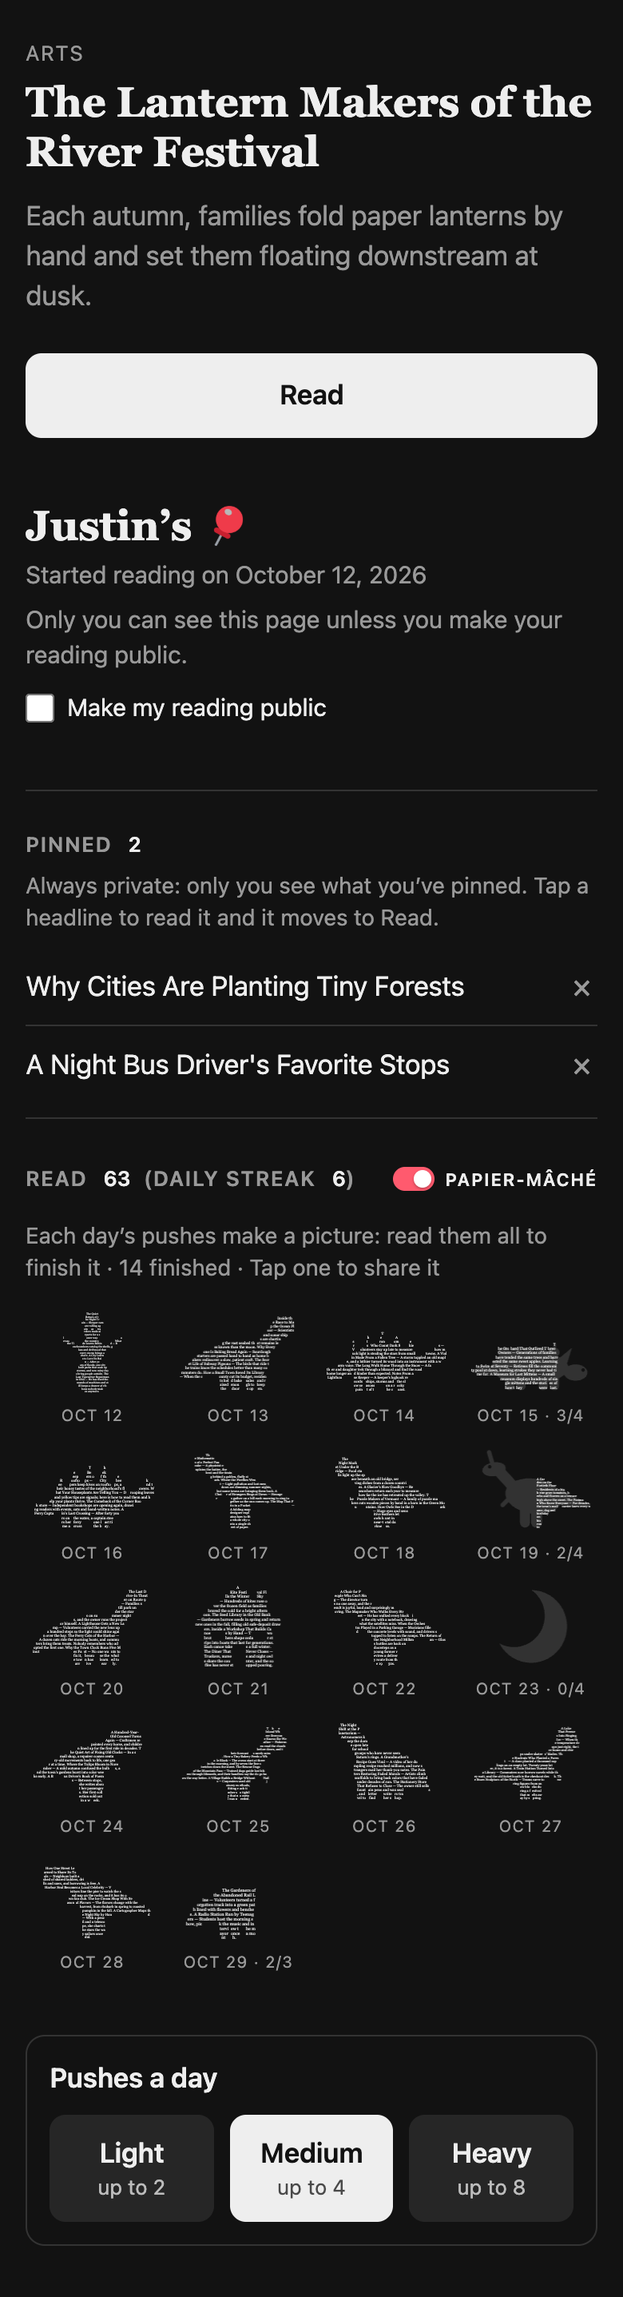
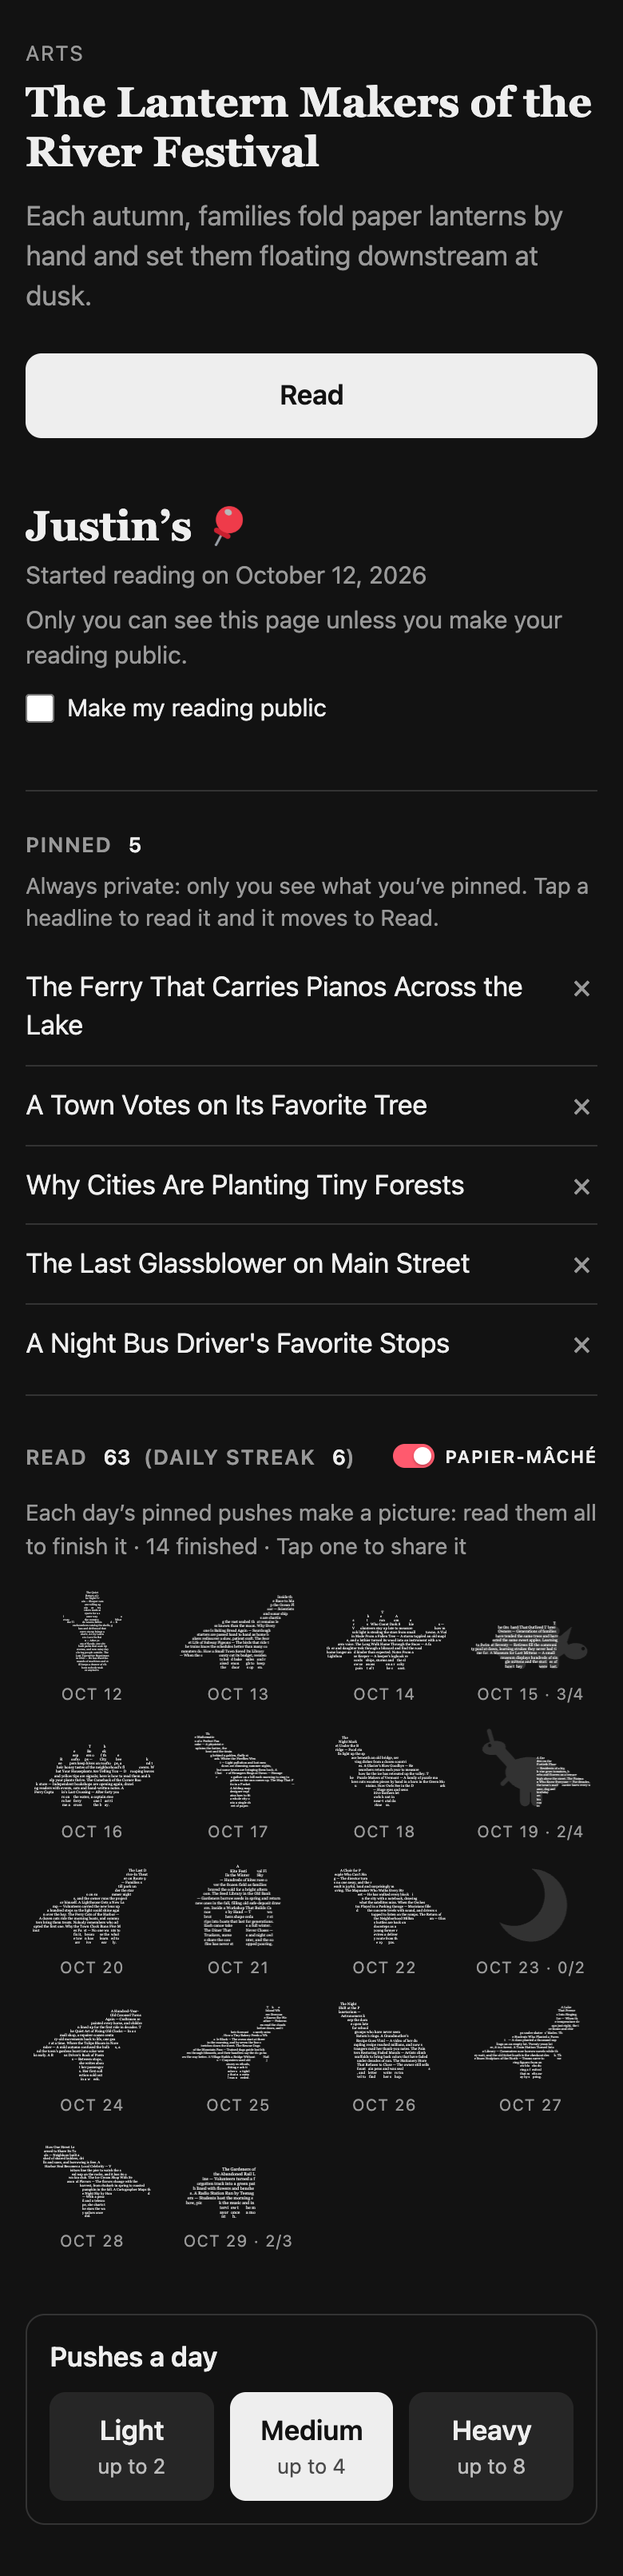
Daily pictures count what was pinned: read ÷ pinned that day (3 read, 2 still pinned: 3/5); pushes never tapped don't count; a pinned article deleted unread leaves the count; demo and docs updated

diff --git a/src/pushpin/cards.py b/src/pushpin/cards.py
@@ -855,14 +855,14 @@ const MONTHS = ['Jan', 'Feb', 'Mar', 'Apr', 'May', 'Jun', 'Jul', 'Aug', 'Sep', '
 function build(animate) {
   box.innerHTML = '';
   days.forEach((d, k) => {  // one picture a day, oldest first, made of that day's read headlines
-    const kind = kindFor(d.day), day = dayText(d), done = d.sent > 0 && d.titles.length >= d.sent, built = d.sent ? Math.min(1, d.titles.length / d.sent) : 0;
+    const kind = kindFor(d.day), day = dayText(d), done = d.pinned > 0 && d.read >= d.pinned, built = d.pinned ? Math.min(1, d.read / d.pinned) : 0;
     const past = d.day < (data.dataset.today || '');
     const when = MONTHS[+d.day.slice(5, 7) - 1] + ' ' + +d.day.slice(8, 10);
     const fig = document.createElement('figure'), canvas = document.createElement('canvas'), cap = document.createElement('figcaption');
     canvas.setAttribute('role', 'img');
-    canvas.setAttribute('aria-label', 'A ' + kind.name + ' for ' + when + ', ' + d.titles.length + ' of ' + d.sent + ' pushes read'
+    canvas.setAttribute('aria-label', 'A ' + kind.name + ' for ' + when + ', ' + d.read + ' of ' + d.pinned + ' pinned pushes read'
                         + (d.titles.length ? ': ' + d.titles.join('; ') : ''));
-    cap.textContent = when + (done ? '' : ' · ' + d.titles.length + '/' + d.sent);
+    cap.textContent = when + (done ? '' : ' · ' + d.read + '/' + d.pinned);
     if (built > 0 || past) {  // tap to share it (unfinished: today, the part revealed; a past day, the whole die-cut, blank where missed)
       const tap = document.createElement('button'), named = done || past;
       tap.type = 'button'; tap.className = 'dino'; tap.title = (named ? kind.name + ' · ' : '') + when;
@@ -900,11 +900,11 @@ let t; window.addEventListener('resize', () => { clearTimeout(t); t = setTimeout
 
 
 def papier_days(read: list[dict]) -> list[dict]:
-    """Days from the reads alone, when the pushes sent aren't known: every day with reads, finished."""
+    """Days from the reads alone, when what was pinned isn't known: every day with reads, finished."""
     out: dict[str, dict] = {}
     for a in sorted(read, key=lambda a: a["read_at"] or ""):
-        d = out.setdefault(a["read_at"][:10], {"day": a["read_at"][:10], "sent": 0, "read": 0, "titles": [], "abstracts": []})
-        d["sent"] += 1
+        d = out.setdefault(a["read_at"][:10], {"day": a["read_at"][:10], "pinned": 0, "read": 0, "titles": [], "abstracts": []})
+        d["pinned"] += 1
         d["read"] += 1
         d["titles"].append(a["title"] or "Untitled")
         d["abstracts"].append(a.get("abstract") or "")
@@ -914,17 +914,19 @@ def papier_days(read: list[dict]) -> list[dict]:
 def papier(read: list[dict], days: list[dict] | None = None, today: date | None = None) -> tuple[str, str, str]:
     """Papier-mâché for a Read list the page shows: the switch for the panel's header, the
     instructions (shown when it's on), and the pictures' container with their days and script.
-    One picture a day, made of that day's read headlines and filled in as they're read: reading
-    all of the day's pushes finishes it. The date picks the shape, the same for everyone that day."""
+    One picture a day the reader pinned pushes, made of the ones they read and filled in as they
+    read them: reading everything pinned that day finishes it (3 read and 2 still pinned: 3/5). The
+    date picks the shape, the same for everyone that day."""
     if not read:
         return "", "", ""
     days = days if days is not None else papier_days(read)
-    data = json.dumps([{"day": d["day"], "sent": d["sent"], "titles": d["titles"], "abstracts": d.get("abstracts") or []}
+    data = json.dumps([{"day": d["day"], "pinned": d["pinned"], "read": d["read"], "titles": d["titles"],
+                        "abstracts": d.get("abstracts") or []}
                        for d in days]).replace("</", "<\\/")
-    done = sum(1 for d in days if d["sent"] and d["read"] >= d["sent"])
+    done = sum(1 for d in days if d["pinned"] and d["read"] >= d["pinned"])
     switch = ('<button type="button" class="pm" id="papier-on" aria-pressed="false">'
               '<span class="track"><span class="knob"></span></span>Papier-mâché</button>')
-    hint = (f'<p class="papier-hint" hidden>Each day’s pushes make a picture: read them all to finish it · '
+    hint = (f'<p class="papier-hint" hidden>Each day’s pinned pushes make a picture: read them all to finish it · '
             f'{done} finished · Tap one to share it</p>')
     gallery = (f'<div class="papier" id="papier" hidden></div>'
                f'<script type="application/json" id="papier-data" '
@@ -987,8 +989,8 @@ def demo_data() -> tuple[list[dict], list[dict]]:
     read, a few not finished, nothing read on Oct 23, and the last six days in a row: Read 63, Daily
     streak 6. Returns the reads and the days (Store.days' shape)."""
     read, by_day, k = [], {}, 0
-    for day, sent, n in DEMO_DAYS:
-        d = {"day": f"2026-10-{day:02d}", "sent": sent, "read": n, "titles": [], "abstracts": []}
+    for day, pinned, n in DEMO_DAYS:
+        d = {"day": f"2026-10-{day:02d}", "pinned": pinned, "read": n, "titles": [], "abstracts": []}
         for j in range(n):
             read.append({"news_id": f"DEMO{k}", "title": DEMO_TITLES[k], "abstract": DEMO_ABSTRACTS[k],
                          "url": "https://www.nytimes.com", "section": None, "read_at": f"{d['day']}T{8 + 4 * j:02d}:00"})
@@ -1013,21 +1015,22 @@ def demo_owner_page(share_url: str, caps: dict | None = None) -> str:
                         days=days, caps=caps, inert=True)
 
 
-# today's third push, just tapped (pinned, not read yet: reading it would finish Oct 29's picture),
-# and pushes pinned on earlier days and never read; made up, like the rest
+# today's third push, just tapped (pinned, not read yet: reading it would finish Oct 29's picture);
+# DEMO_PINNED adds the ones pinned on earlier days and never read (Oct 15, 19, 23); made up
 DEMO_PIN = {"push_id": "DEMO-PIN", "news_id": "DEMO-PIN", "section": "Arts", "url": "https://www.nytimes.com", "read": False,
             "title": "The Lantern Makers of the River Festival",
             "abstract": "Each autumn, families fold paper lanterns by hand and set them floating downstream at dusk."}
-DEMO_PINNED = [{"news_id": "DEMO-PIN", "push_id": "DEMO-PIN", "url": "https://www.nytimes.com", "title": DEMO_PIN["title"]},
-               {"news_id": "DEMO-P19", "push_id": "DEMO-P19", "url": "https://www.nytimes.com",
-                "title": "Why Cities Are Planting Tiny Forests"},
-               {"news_id": "DEMO-P15", "push_id": "DEMO-P15", "url": "https://www.nytimes.com",
-                "title": "A Night Bus Driver's Favorite Stops"}]
+DEMO_PINNED = [  # most recently pinned first: today's, then two from Oct 23, two from Oct 19, one from Oct 15
+    {"news_id": "DEMO-PIN", "push_id": "DEMO-PIN", "url": "https://www.nytimes.com", "title": DEMO_PIN["title"]},
+    *({"news_id": f"DEMO-P{k}", "push_id": f"DEMO-P{k}", "url": "https://www.nytimes.com", "title": t} for k, t in enumerate([
+        "The Ferry That Carries Pianos Across the Lake", "A Town Votes on Its Favorite Tree",
+        "Why Cities Are Planting Tiny Forests", "The Last Glassblower on Main Street",
+        "A Night Bus Driver's Favorite Stops"]))]
 
 
-# (day of October, pushes sent, read): 18 days, 14 finished; today (the 29th) has had 3 so far
+# (day of October, pushes pinned, read): 18 days, 14 finished; the unread pins are DEMO_PINNED
 DEMO_DAYS = [(12, 4, 4), (13, 4, 4), (14, 4, 4), (15, 4, 3), (16, 4, 4), (17, 4, 4), (18, 4, 4), (19, 4, 2),
-             (20, 4, 4), (21, 4, 4), (22, 4, 4), (23, 4, 0), (24, 4, 4), (25, 4, 4), (26, 4, 4), (27, 4, 4),
+             (20, 4, 4), (21, 4, 4), (22, 4, 4), (23, 2, 0), (24, 4, 4), (25, 4, 4), (26, 4, 4), (27, 4, 4),
              (28, 4, 4), (29, 3, 2)]
 
 

diff --git a/tests/test_notifier.py b/tests/test_notifier.py
@@ -526,7 +526,7 @@ def test_papier_mache_only_with_a_visible_read_list():
             for i in range(7)]
     reader = {"name": "Jo", "history_public": 0}
     own = cards.profile_page(reader, read, owner=True)
-    assert 'id="papier-on"' in own and "Each day’s pushes make a picture: read them all to finish it · 7 finished" in own
+    assert 'id="papier-on"' in own and "Each day’s pinned pushes make a picture: read them all to finish it · 7 finished" in own
     head = re.search(r'<div class="readhead">.*?</div>', own).group(0)
     assert 'id="papier-on"' in head and 'class="papier-hint" hidden' in own  # switch in the Read header; hint until on
     assert "Tap one to share it" in own and "async function sticker(day, kind, built = 1, past = false)" in own  # a finished one shares as a sticker
@@ -537,20 +537,21 @@ def test_papier_mache_only_with_a_visible_read_list():
     assert panel.index('class="list"') < panel.index('id="papier"')  # one panel, no fold
     assert "<details" not in own and 'class="plus"' not in own
     data = re.search(r'id="papier-data"[^>]*>(.*?)</script>', own).group(1)
-    assert data.startswith('[{"day": "2026-11-10", "sent": 1, "titles": ["T0<\\/script>"], "abstracts": [""]}') and "</script>\"" not in data  # oldest first, can't close the tag
+    assert data.startswith('[{"day": "2026-11-10", "pinned": 1, "read": 1, "titles": ["T0<\\/script>"], "abstracts": [""]}') and "</script>\"" not in data  # oldest first, can't close the tag
     assert 'id="papier-on"' not in cards.profile_page(reader, read, owner=False)  # private list: no dinosaurs
     assert 'id="papier-on"' in cards.profile_page({**reader, "history_public": 1}, read, owner=False)
     assert 'id="papier-on"' not in cards.profile_page(reader, [], owner=True)
     assert "read them all to finish it · 1 finished" in cards.profile_page(reader, read[:1], owner=True)
-    half = [{"day": "2026-11-10", "sent": 2, "read": 1, "titles": ["T0"]}]  # one of two pushes read: not finished
+    half = [{"day": "2026-11-10", "pinned": 2, "read": 1, "titles": ["T0"]}]  # one of two pinned read: not finished
     assert "· 0 finished ·" in cards.profile_page(reader, read[:1], owner=True, days=half)
 
 
-def test_a_days_picture_is_finished_when_all_its_pushes_are_read(setup):
+def test_a_days_picture_counts_what_was_pinned_and_is_finished_when_all_of_it_is_read(setup):
     n, store, sent, _db = setup
-    n.run_slot(pd.Timestamp("2026-11-12 12:00"))
-    n.run_slot(pd.Timestamp("2026-11-12 17:00"))
-    first, second = (a[4].rsplit("/", 1)[1] for a in sent)
+    n.cfg["daily_cap"] = 3
+    for hour in (9, 12, 17):
+        n.run_slot(pd.Timestamp(f"2026-11-12 {hour}:00"))
+    first, second, third = (a[4].rsplit("/", 1)[1] for a in sent)
     server = cards.serve_cards(store, 0)
     get, post = phone(f"http://127.0.0.1:{server.server_address[1]}")
     try:
@@ -559,16 +560,22 @@ def test_a_days_picture_is_finished_when_all_its_pushes_are_read(setup):
         rid = store._rows("SELECT reader_id FROM readers")[0]["reader_id"]
         title, abstract = store.push(first)["title"], store.push(first)["abstract"]
         day = store._rows("SELECT sent_at FROM scores WHERE push_id = :p", p=first)[0]["sent_at"][:10]  # when it was sent
-        assert store.days(rid) == [{"day": day, "sent": 2, "read": 1, "titles": [title], "abstracts": [abstract]}]
-        assert "· 0 finished ·" in get("/me")  # one of the day's two pushes read
+        # the other two were sent but never tapped: they don't count, so 1 of 1 pinned is read
+        assert store.days(rid) == [{"day": day, "pinned": 1, "read": 1, "titles": [title], "abstracts": [abstract]}]
+        assert "· 1 finished ·" in get("/me")
+        get(f"/p/{second}")  # pinned, not read: 1 of 2
+        assert [(d["pinned"], d["read"]) for d in store.days(rid)] == [(2, 1)] and "· 0 finished ·" in get("/me")
         post(f"/read/{second}")
-        assert store.days(rid)[0]["read"] == 2 and "· 1 finished ·" in get("/me")
-        post(f"/remove/{store.push(second)['news_id']}")  # deleted: still read, but its title isn't shown
-        assert store.days(rid) == [{"day": day, "sent": 2, "read": 2, "titles": [title], "abstracts": [abstract]}]
+        assert [(d["pinned"], d["read"]) for d in store.days(rid)] == [(2, 2)] and "· 1 finished ·" in get("/me")
+        get(f"/p/{third}")
+        post(f"/remove/{store.push(third)['news_id']}")  # pinned, never read, deleted: it leaves the count
+        assert [(d["pinned"], d["read"]) for d in store.days(rid)] == [(2, 2)]
+        post(f"/remove/{store.push(second)['news_id']}")  # read, then deleted: still read, but its words aren't shown
+        assert store.days(rid) == [{"day": day, "pinned": 2, "read": 2, "titles": [title], "abstracts": [abstract]}]
         assert store.days(None) == []
-        stray = store.new_reader(None)  # no first push time: only what they tapped counts
+        stray = store.new_reader(None)  # no first push time: what they tapped still counts
         store.interact(first, stray, "open")
-        assert [(d["sent"], d["read"]) for d in store.days(stray)] == [(1, 0)]
+        assert [(d["pinned"], d["read"]) for d in store.days(stray)] == [(1, 0)]
     finally:
         server.shutdown()
 
@@ -582,7 +589,7 @@ def test_demo_page_shows_dinosaurs_and_stores_nothing(setup):
         server.shutdown()
     assert 'id="papier-on"' in page and "14 finished" in page and "Justin’s" in page and "Crème" not in page
     data = json.loads(re.search(r'id="papier-data"[^>]*>(.*?)</script>', page).group(1))
-    assert len(data) == 18 and {"day": "2026-10-23", "sent": 4, "titles": [], "abstracts": []} in data  # a day with nothing read
+    assert len(data) == 18 and {"day": "2026-10-23", "pinned": 2, "read": 0, "titles": [], "abstracts": []} in data  # pinned, nothing read
     assert 'data-today="2026-10-29"' in page  # a past day with nothing read shows its outline; today shows a nudge
     assert all(len(d["abstracts"]) == len(d["titles"]) and all(d["abstracts"]) for d in data)  # titles and abstracts
     assert "function dayText(d)" in page and "const seed = 'pushpin:' + d.day" in page  # seeded by the day, the same for everyone
@@ -598,7 +605,7 @@ def test_demo_owner_view_shows_what_the_reader_sees_and_stores_nothing(setup):
         server.shutdown()
     assert 'class="pin"' in page and "The Lantern Makers of the River Festival" in page  # today's push, pinned on top
     assert 'id="public"' in page and "<h2>Pinned" in page and 'class="volume"' in page and 'id="papier-on"' in page
-    assert 'Pinned <span class="n">2</span>' in page  # the pinned one on top isn't listed again
+    assert 'Pinned <span class="n">5</span>' in page  # the pinned one on top isn't listed again
     assert '/remove/' not in page and '"/public"' not in page and '"/volume"' not in page  # buttons never reach the server
     assert store.reader_count() == 0 and db("SELECT COUNT(*) AS n FROM interactions")["n"].item() == 0
 

diff --git a/src/pushpin/store.py b/src/pushpin/store.py
@@ -378,26 +378,26 @@ class Store:
             WHERE i.reader_id = :r AND s.news_id = :n LIMIT 1""", r=reader_id, n=news_id))
 
     def days(self, reader_id: str | None) -> list[dict]:
-        """Each day this reader was sent pushes, oldest first: day (YYYY-MM-DD, local), sent (how
-        many pushes they got), read (how many of those they tapped Read on, on any day since), and
-        titles and abstracts of the read ones they haven't deleted from their profile, in send
-        order. Reading all of a day's pushes finishes that day's picture on the profile."""
+        """Each day this reader pinned pushes (tapped them), oldest first: day (YYYY-MM-DD, local, the
+        day the push was sent), pinned (how many they tapped, read or not), read (how many of those
+        they tapped Read on, on any day since), and titles and abstracts of the read ones, in send
+        order. Reading everything pinned that day finishes its picture; pushes never tapped don't
+        count. An article deleted from the profile leaves the count unless it was read (then it
+        still counts as read, but its words aren't shown)."""
         if not reader_id or not self._has_scores():
             return []
-        did = lambda kind: ("EXISTS (SELECT 1 FROM interactions i WHERE i.push_id = s.push_id AND i.reader_id = :r"
-                            + (f" AND i.kind = '{kind}')" if kind else ")"))
-        # the pushes `labeled` counts as theirs, plus any they opened (a reader set up without a
-        # first push time still gets the ones they tapped)
         rows = self._rows(f"""SELECT SUBSTR(s.sent_at, 1, 10) AS day, s.push_id, s.title, a.abstract,
-                {did("read")} AS read, {KEPT} AS kept
-            FROM scores s JOIN readers r ON r.reader_id = :r LEFT JOIN articles a ON a.news_id = s.news_id
-            WHERE s.sent AND ((s.for_reader IS NULL AND r.apple_sub IS NULL AND s.sent_ts >= r.first_push_ts)
-                              OR s.for_reader = r.reader_id OR {did(None)})
-            ORDER BY s.sent_ts, s.push_id""", r=reader_id)
+                EXISTS (SELECT 1 FROM interactions i2 WHERE i2.push_id = s.push_id AND i2.reader_id = :r
+                        AND i2.kind = 'read') AS read, {KEPT} AS kept
+            FROM scores s JOIN interactions i ON i.push_id = s.push_id AND i.reader_id = :r AND i.kind = 'open'
+                LEFT JOIN articles a ON a.news_id = s.news_id
+            WHERE s.sent ORDER BY s.sent_ts, s.push_id""", r=reader_id)
         out: dict[str, dict] = {}
         for row in rows:
-            d = out.setdefault(row["day"], {"day": row["day"], "sent": 0, "read": 0, "titles": [], "abstracts": []})
-            d["sent"] += 1
+            if not (row["read"] or row["kept"]):  # pinned, never read, then deleted: gone
+                continue
+            d = out.setdefault(row["day"], {"day": row["day"], "pinned": 0, "read": 0, "titles": [], "abstracts": []})
+            d["pinned"] += 1
             if row["read"]:
                 d["read"] += 1
                 if row["kept"]:

diff --git a/docs/demo-screens.md b/docs/demo-screens.md
@@ -36,17 +36,15 @@ pictures, and pushes a day. Its buttons only change the page.
 
 <img src="screens/demo-owner.png" width="300" alt="Demo owner view: today's pinned push with Read, the privacy switch, Pinned 2, Read 63 with the daily pictures, pushes a day">
 
-Each day's pushes make one papier-mâché picture, a common symbol (snowman, heart, star, moon...)
-or a dinosaur, the same shape for everyone that day, written in the titles and abstracts read that
-day, each used once. The type is sized so the text fills the whole shape, thin parts included. A
-picture is revealed from one side as the day's pushes are read; while the day is on, nothing shows
-of the rest, so it's a guess what it will be. Once the day is over, an unfinished picture gets the
-grey outline of what it could have been under the part that was read (Oct 15 · 3/4), and a day
-with nothing read is just the outline (Oct 23 · 0/4). Today is still a guess: Oct 29 has 2 of the
-3 pushes sent so far read (Oct 29 · 2/3). A picture counts only pushes already sent, so it's
-finished once everything sent that day is read; if another push goes out later, it's unfinished
-again until that one is read. Today, with nothing read yet, says "Start reading to make today's
-word art".
+Each day you pin pushes (tap them) makes one papier-mâché picture, a common symbol (snowman,
+heart, star, moon...) or a dinosaur, the same shape for everyone that day, written in the titles
+and abstracts of the ones you read, each used once. It fills in as you read what you pinned: 3
+read and 2 still pinned is 3/5, everything read is finished, and pushes you never tapped don't
+count. While the day is on, nothing shows of the rest, so it's a guess what it will be (today: Oct
+29 · 2/3). Once the day is over, an unfinished picture gets the grey outline of what it could have
+been under the part that was read (Oct 15 · 3/4), and a day with things pinned but nothing read is
+just the outline (Oct 23 · 0/2). Today, with nothing read yet, says "Start reading to make today's
+word art". The type is sized so the text fills the whole shape, thin parts included.
 
 ## 4. Sharing a picture
 
@@ -66,13 +64,13 @@ The demo's snowman and Brontosaurus, each made of the four articles read that da
 <img src="screens/sticker-snowman.png" width="260" alt="Snowman sticker: four articles' titles and abstracts written into a snowman on a white die-cut, with the PushPin pin">
 <img src="screens/sticker-brontosaurus.png" width="420" alt="Brontosaurus sticker: four articles' titles and abstracts written into a Brontosaurus on a white die-cut, with the PushPin pin">
 
-Days that are over and weren't finished share what was missed: Oct 15 (3 of 4 read) and Oct 23
-(nothing read):
+Days that are over and weren't finished share what was missed: Oct 15 (3 of 4 pinned read) and
+Oct 23 (2 pinned, nothing read):
 
 <img src="screens/sticker-unfinished.png" width="420" alt="Unfinished day sticker: the read articles in part of the shape, the rest blank white die-cut">
 <img src="screens/sticker-missed.png" width="200" alt="Missed day sticker: a blank white moon die-cut">
 
-Today's unfinished picture (Oct 29, 2 of 3 read) shares just the part revealed so far:
+Today's unfinished picture (Oct 29, 2 of 3 pinned read) shares just the part revealed so far:
 
 <img src="screens/sticker-today.png" width="300" alt="Today's unfinished sticker: only the part revealed so far, die-cut around it">
 

diff --git a/README.md b/README.md
@@ -36,12 +36,12 @@ Details: [docs/model.md](docs/model.md) and [docs/analysis.md](docs/analysis.md)
 
 The notifier scores live NYT RSS articles and pushes to phones through [ntfy](https://ntfy.sh)
 or the iOS app. Readers choose a volume: light (2 a day: morning, night), medium (4) or heavy (8).
-Tapping a push opens the reader's profile. Each day's pushes make a small papier-mâché picture (a
-snowman, a heart, a star, a dinosaur...) out of the titles and abstracts of the articles read, and
-it's finished only when the reader has read all of that day's pushes. Tapping a finished one turns
-it into a sticker to share in any chat. Everyone gets the same shape on a given day; the words
-they read make it theirs. Every push and tap is logged as labeled data that MIND lacks. The plan
-is to retrain the model each week on these logs. It can also deploy to GCP for about $1/month.
+Tapping a push opens the reader's profile. Each day's pinned pushes make a small papier-mâché
+picture (a snowman, a heart, a star, a dinosaur...) out of the titles and abstracts of the
+articles read, and it's finished once everything pinned that day is read. Tapping one turns it
+into a sticker to share in any chat. Everyone gets the same shape on a given day; the words they
+read make it theirs. Every push and tap is logged as labeled data that MIND lacks. The plan is to
+retrain the model each week on these logs. It can also deploy to GCP for about $1/month.
 
 ## Proposed A/B test
 
